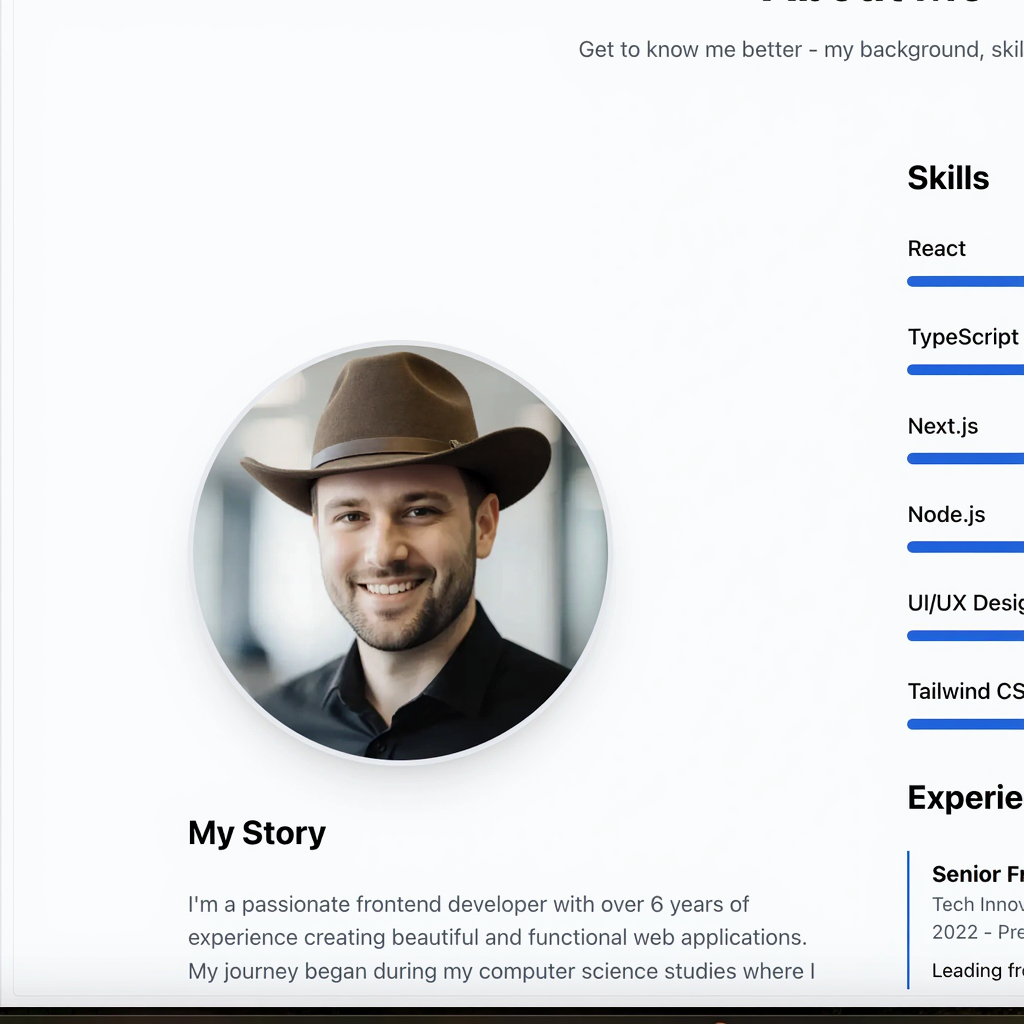
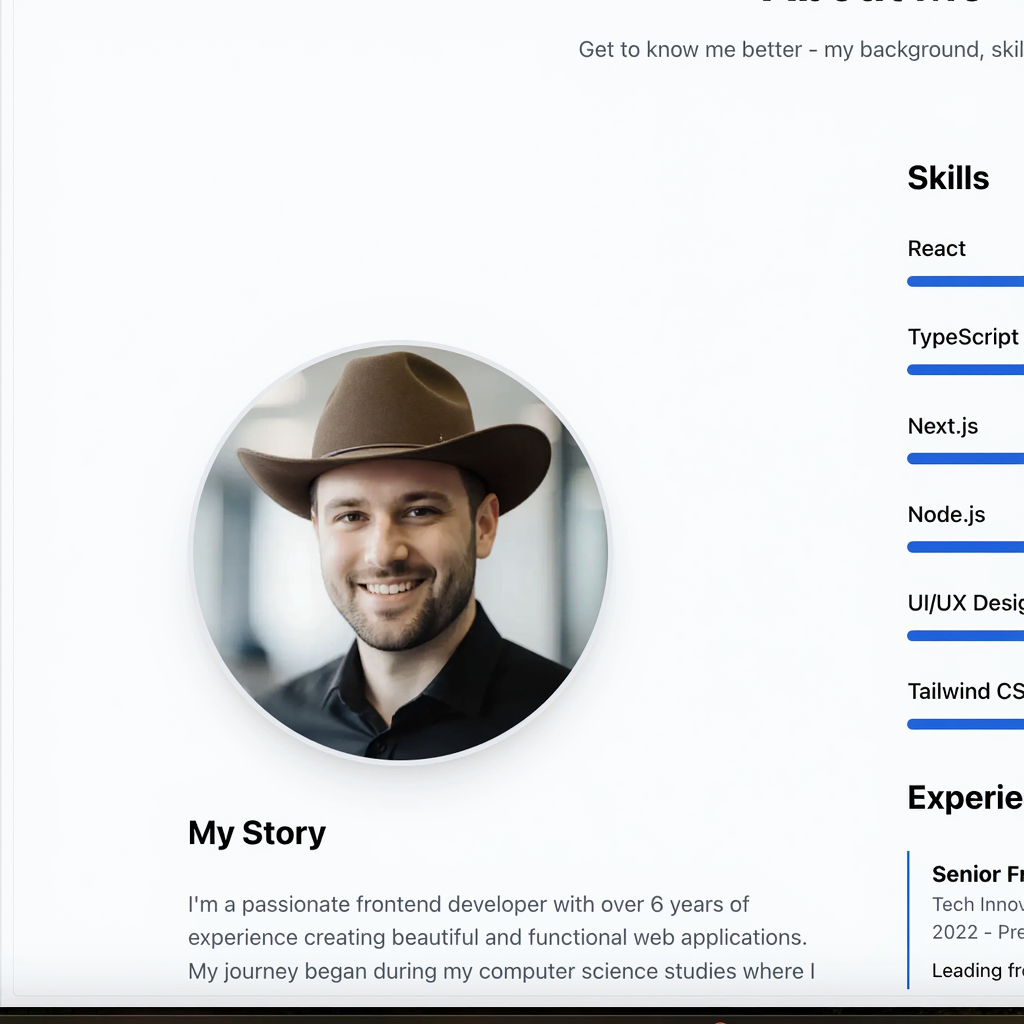
feat(profile-image): update hat from Santa to cowboy

Changed region(s): [[0.2188, 0.4062, 0.5312, 0.5312], [0.5, 0.4688, 0.5312, 0.5]]

diff --git a/components/about-section.tsx b/components/about-section.tsx
@@ -67,8 +67,8 @@ export function AboutSection() {
           <div className="flex flex-col items-center lg:items-start">
             <div className="mb-8 rounded-full overflow-hidden border-4 border-primary/20 shadow-xl">
               <Image 
-                src="/images/profile-with-santa-hat.jpg" 
-                alt="Alex Johnson with Santa hat" 
+                src="/images/profile-cowboy-hat.png" 
+                alt="Alex Johnson with cowboy hat" 
                 width={300}
                 height={300}
                 className="rounded-full"
